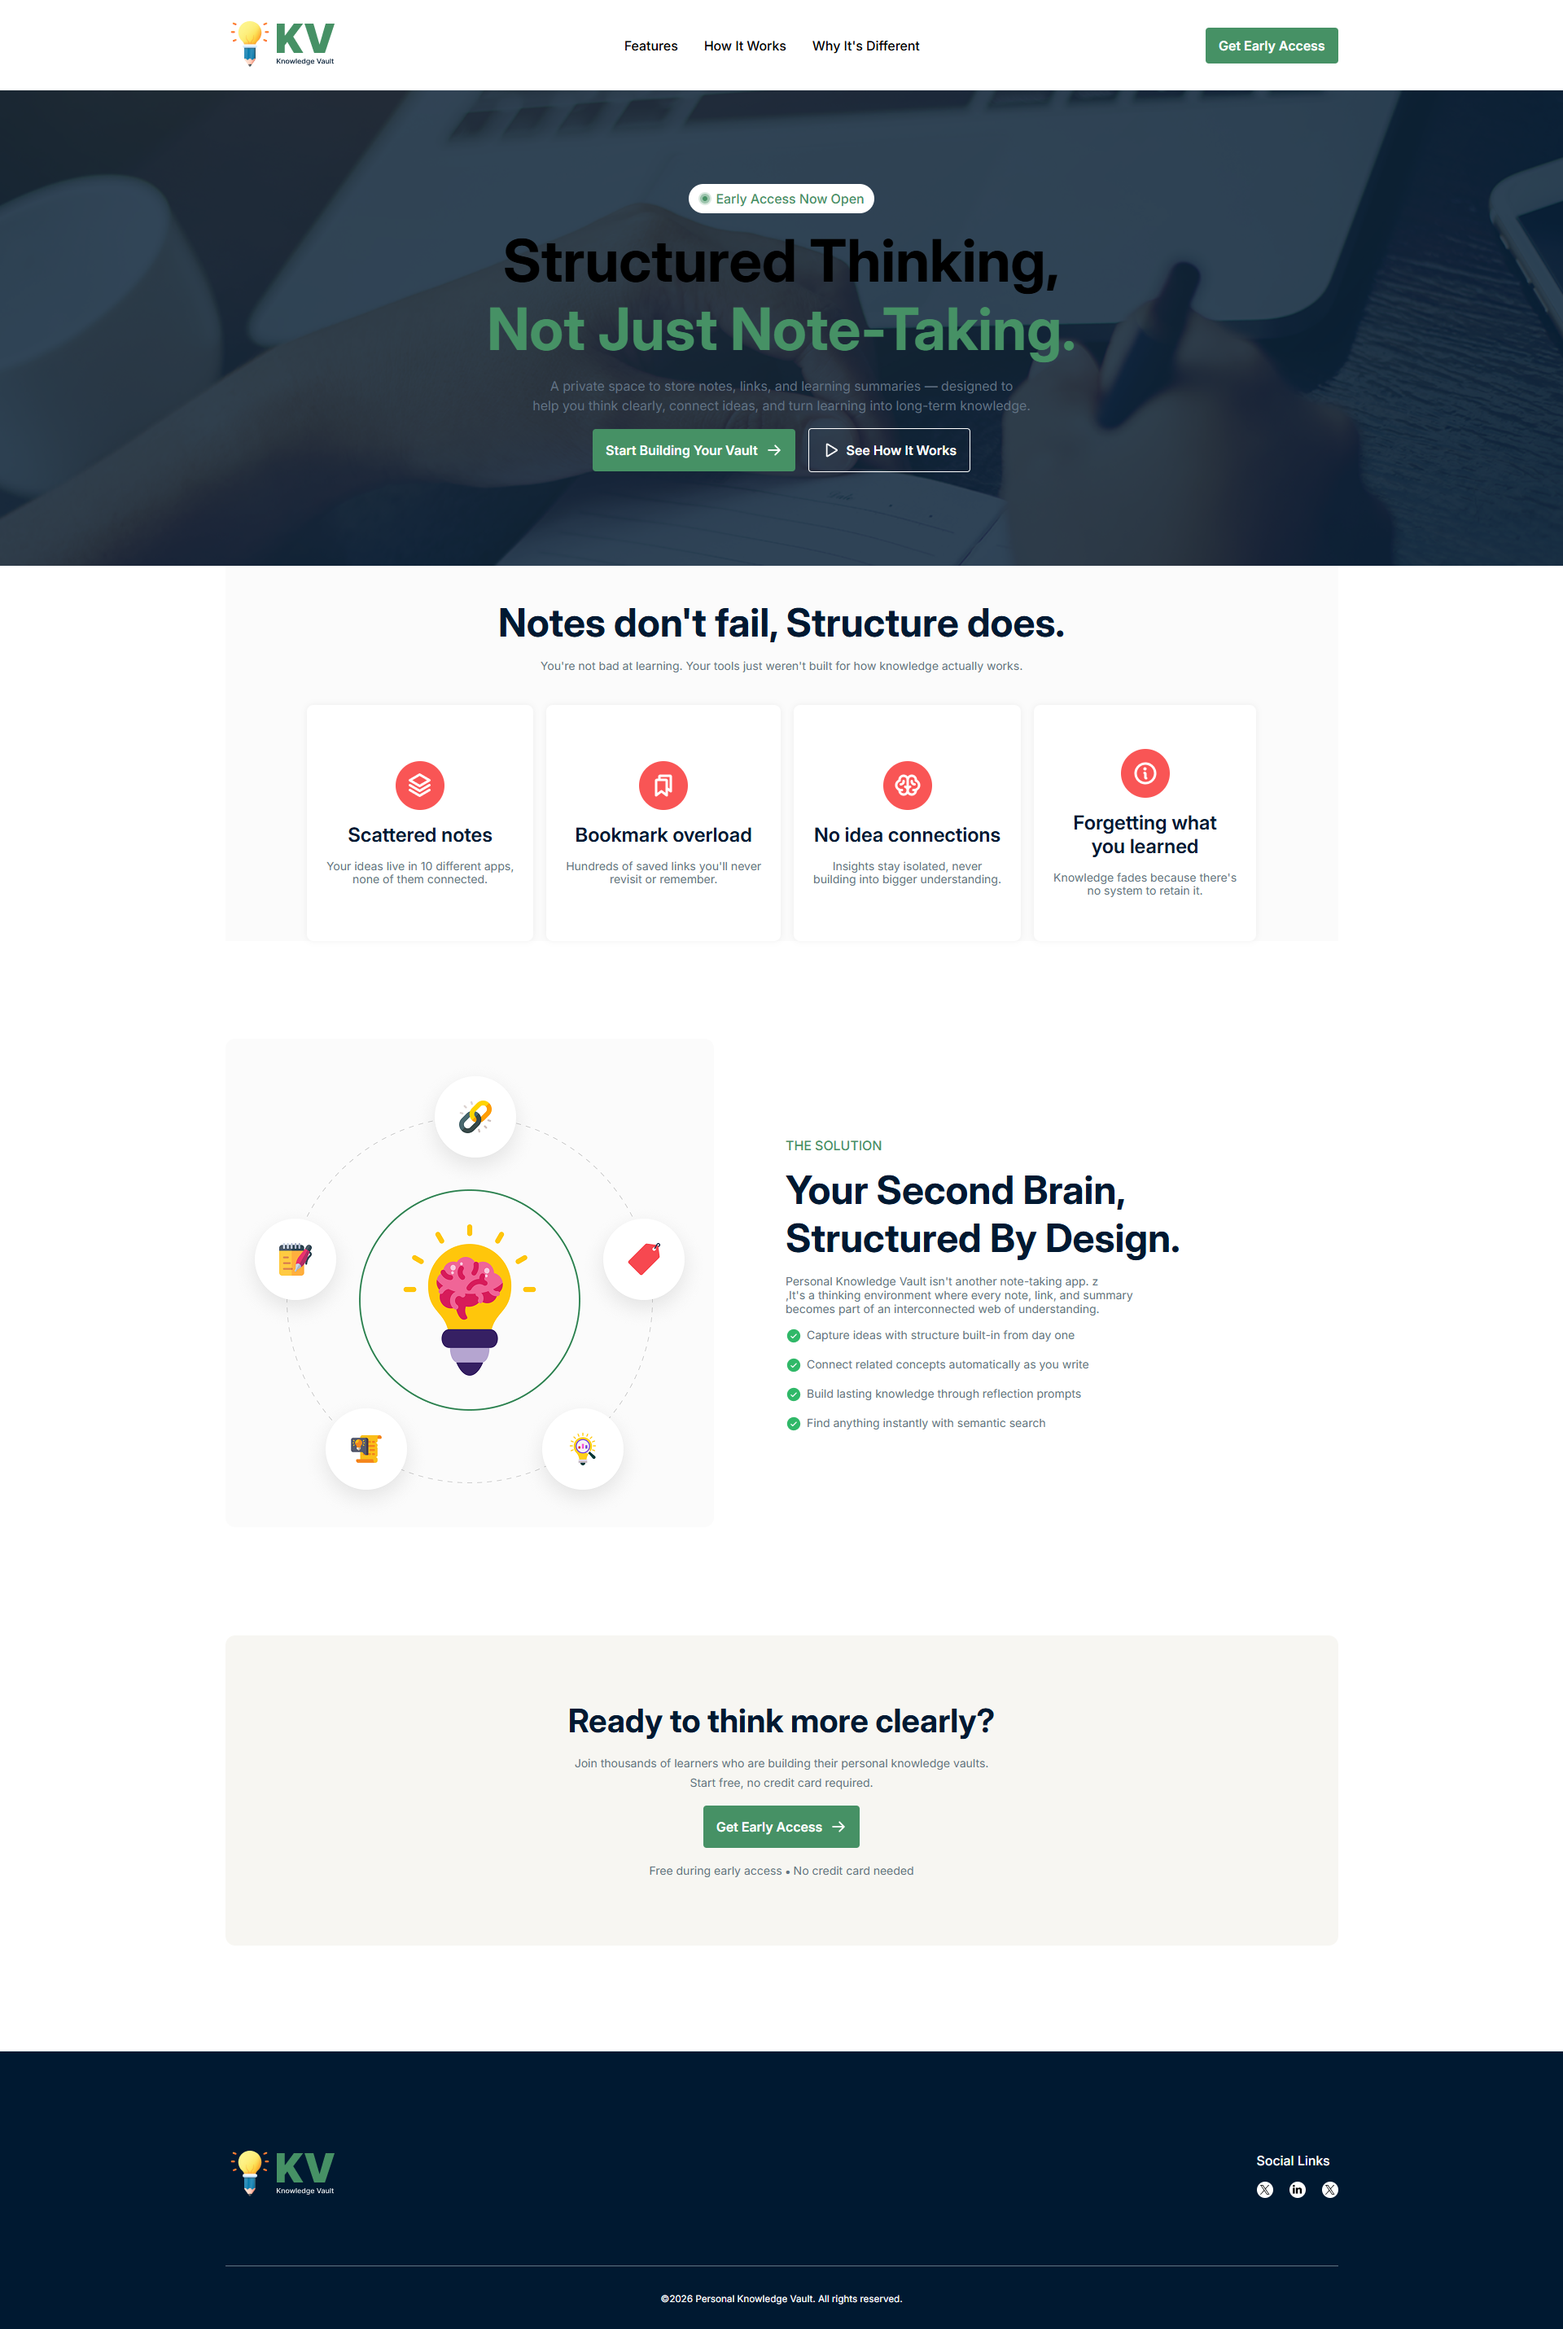
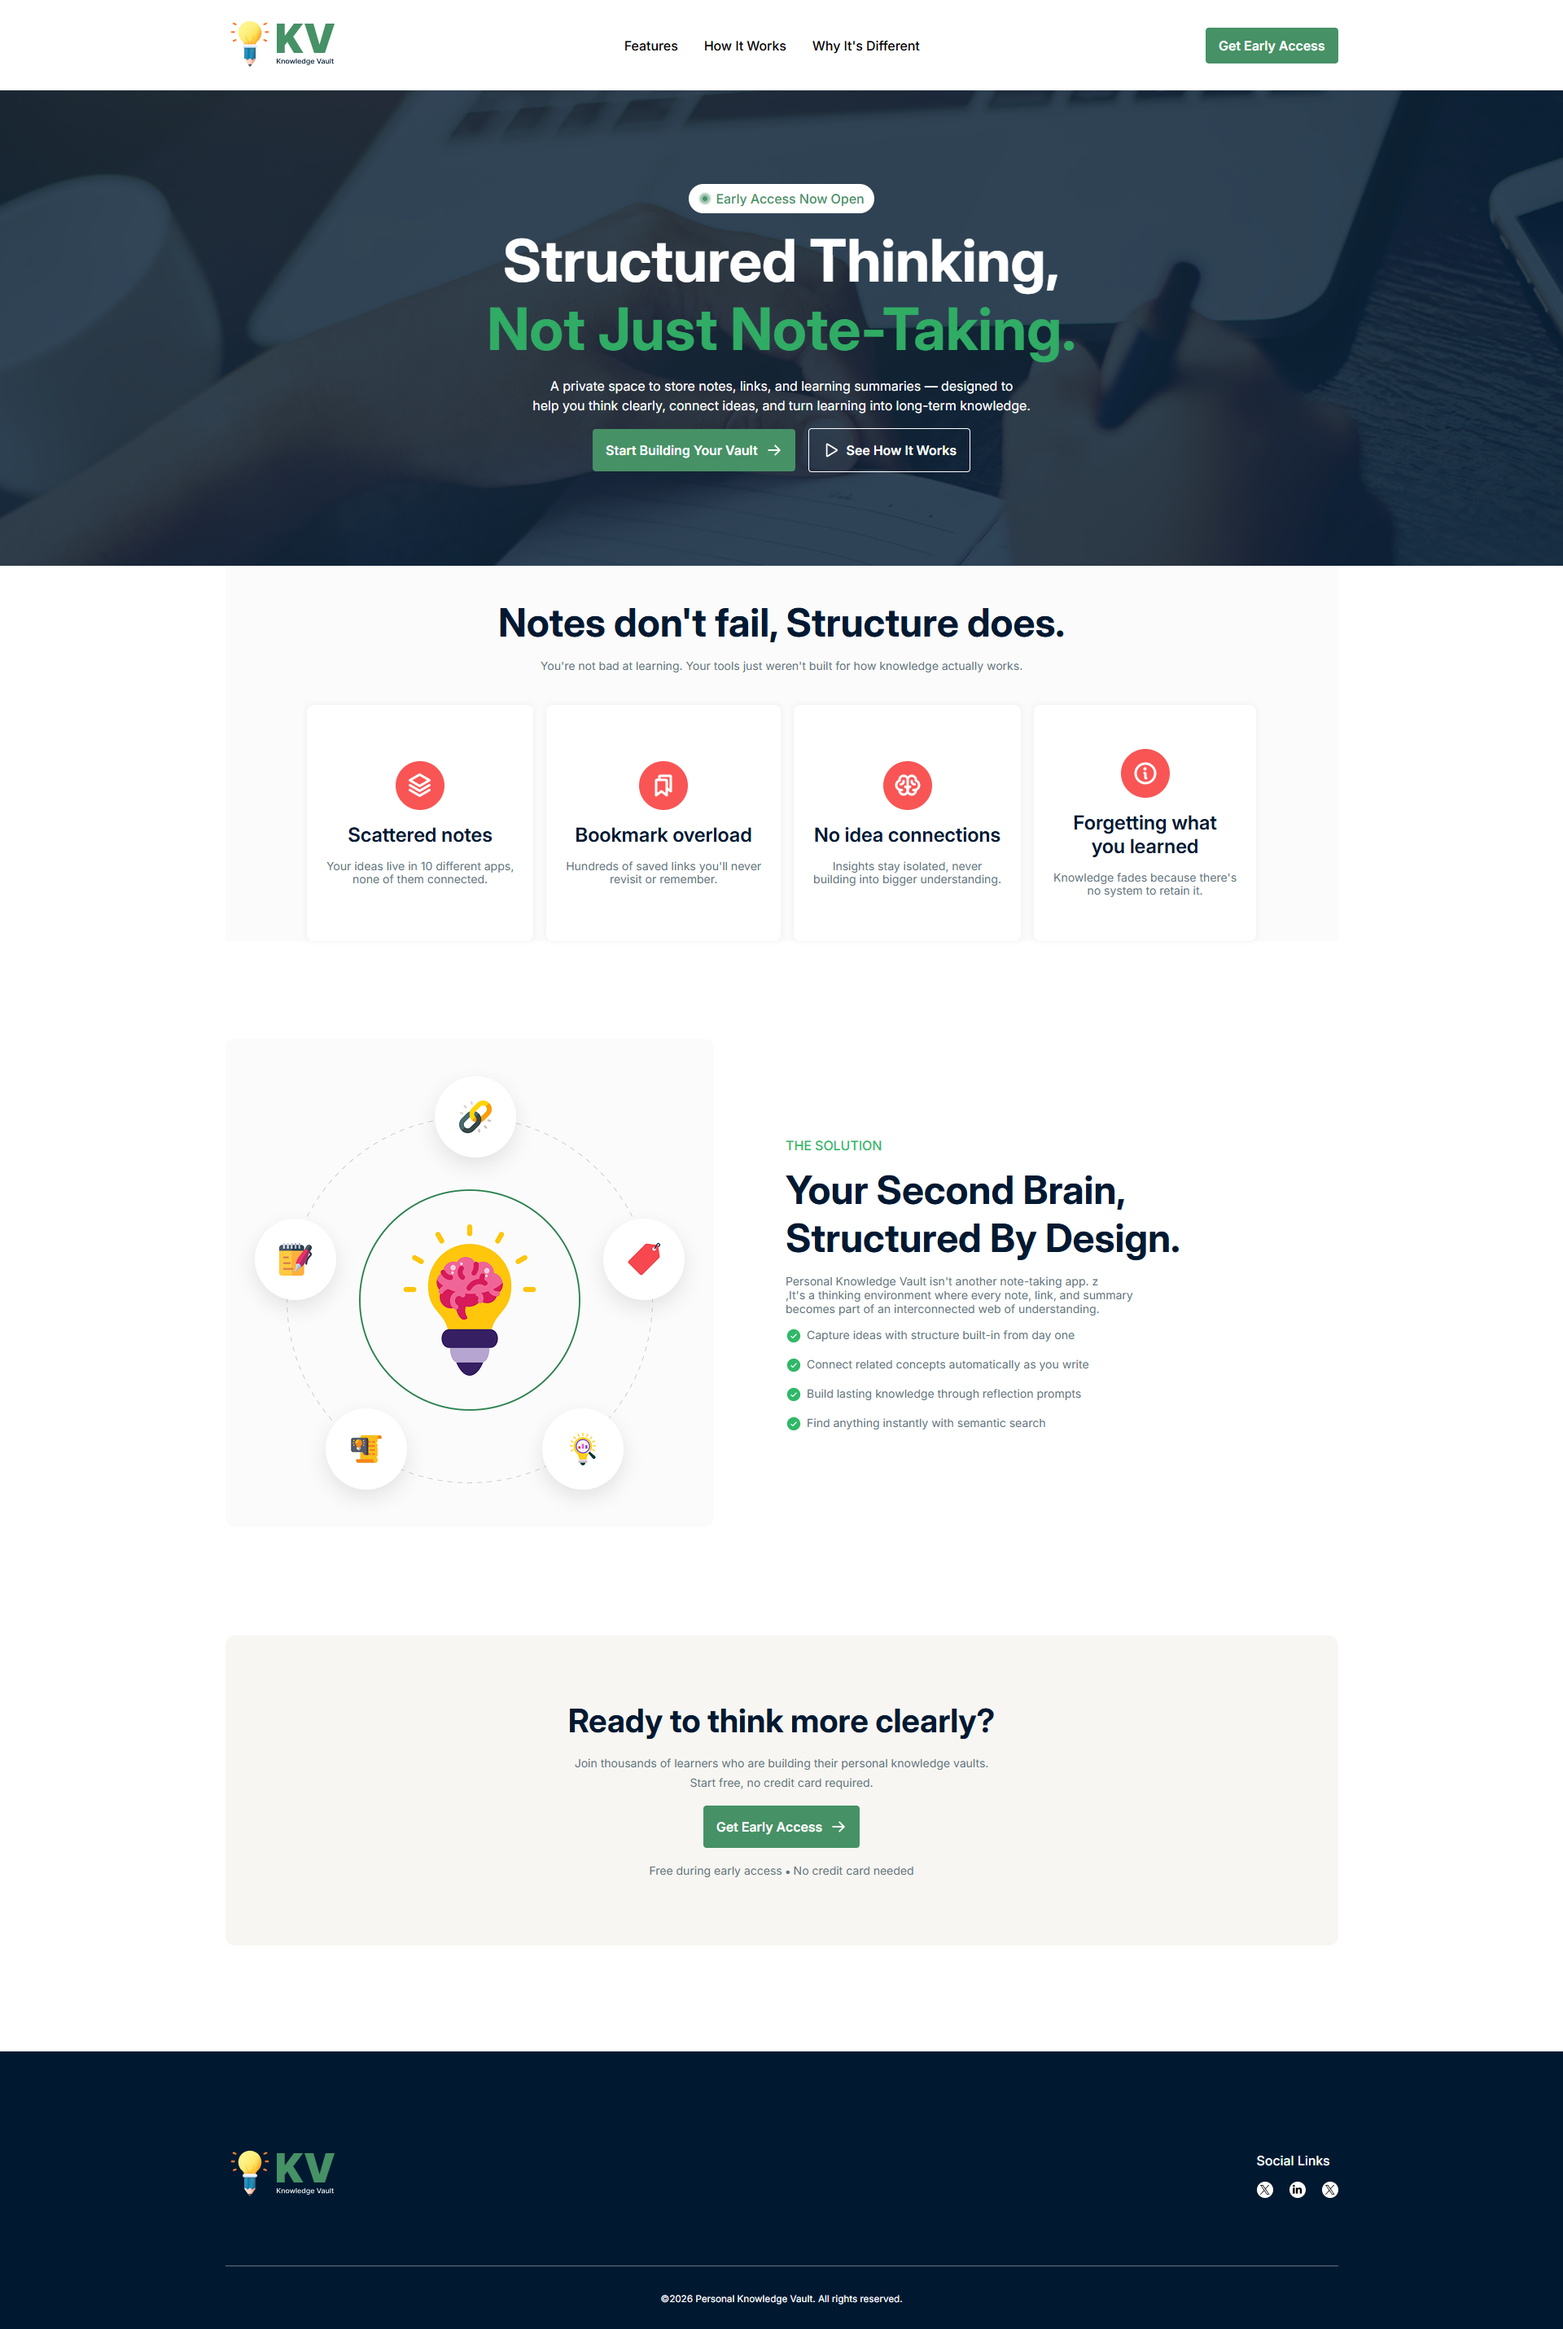
finalUpdate: Modified Color Scheme Background Design

Changed region(s): [[0.3125, 0.0933, 0.6875, 0.1866]]

diff --git a/css/style.css b/css/style.css
@@ -33,7 +33,7 @@
 
 /* Hero Header Style */
 #hero_header {
-  background: url(../assets/hero-bg.png);
+  background: url(../assets/hero-bg.png), rgba(0, 25, 49, 0.8);
   background-size: cover;
   background-repeat: no-repeat;
   background-position: center, center;
@@ -78,13 +78,14 @@
   font-weight: bold;
   line-height: 84px;
   text-transform: capitalize;
+  color: var(--whiteColor);
 }
 .details h1 span {
-  color: var(--primaryColor);
+  color: #30ac65;
 }
 
 .details p {
-  color: var(--paragraphColor);
+  color: var(--whiteColor);
   font-size: 16px;
   line-height: 24px;
 }
@@ -103,6 +104,7 @@
   align-items: center;
   gap: 10px;
   cursor: pointer;
+  transition: 0.4s all ease-in-out;
 }
 .btn_container .btns2 {
   padding: 16px;
@@ -221,7 +223,7 @@
   font-size: 16px;
   font-weight: 500;
   text-transform: uppercase;
-  color: var(--primaryColor);
+  color: #30b868;
 }
 .knowledge_details h2 {
   font-size: 48px;
